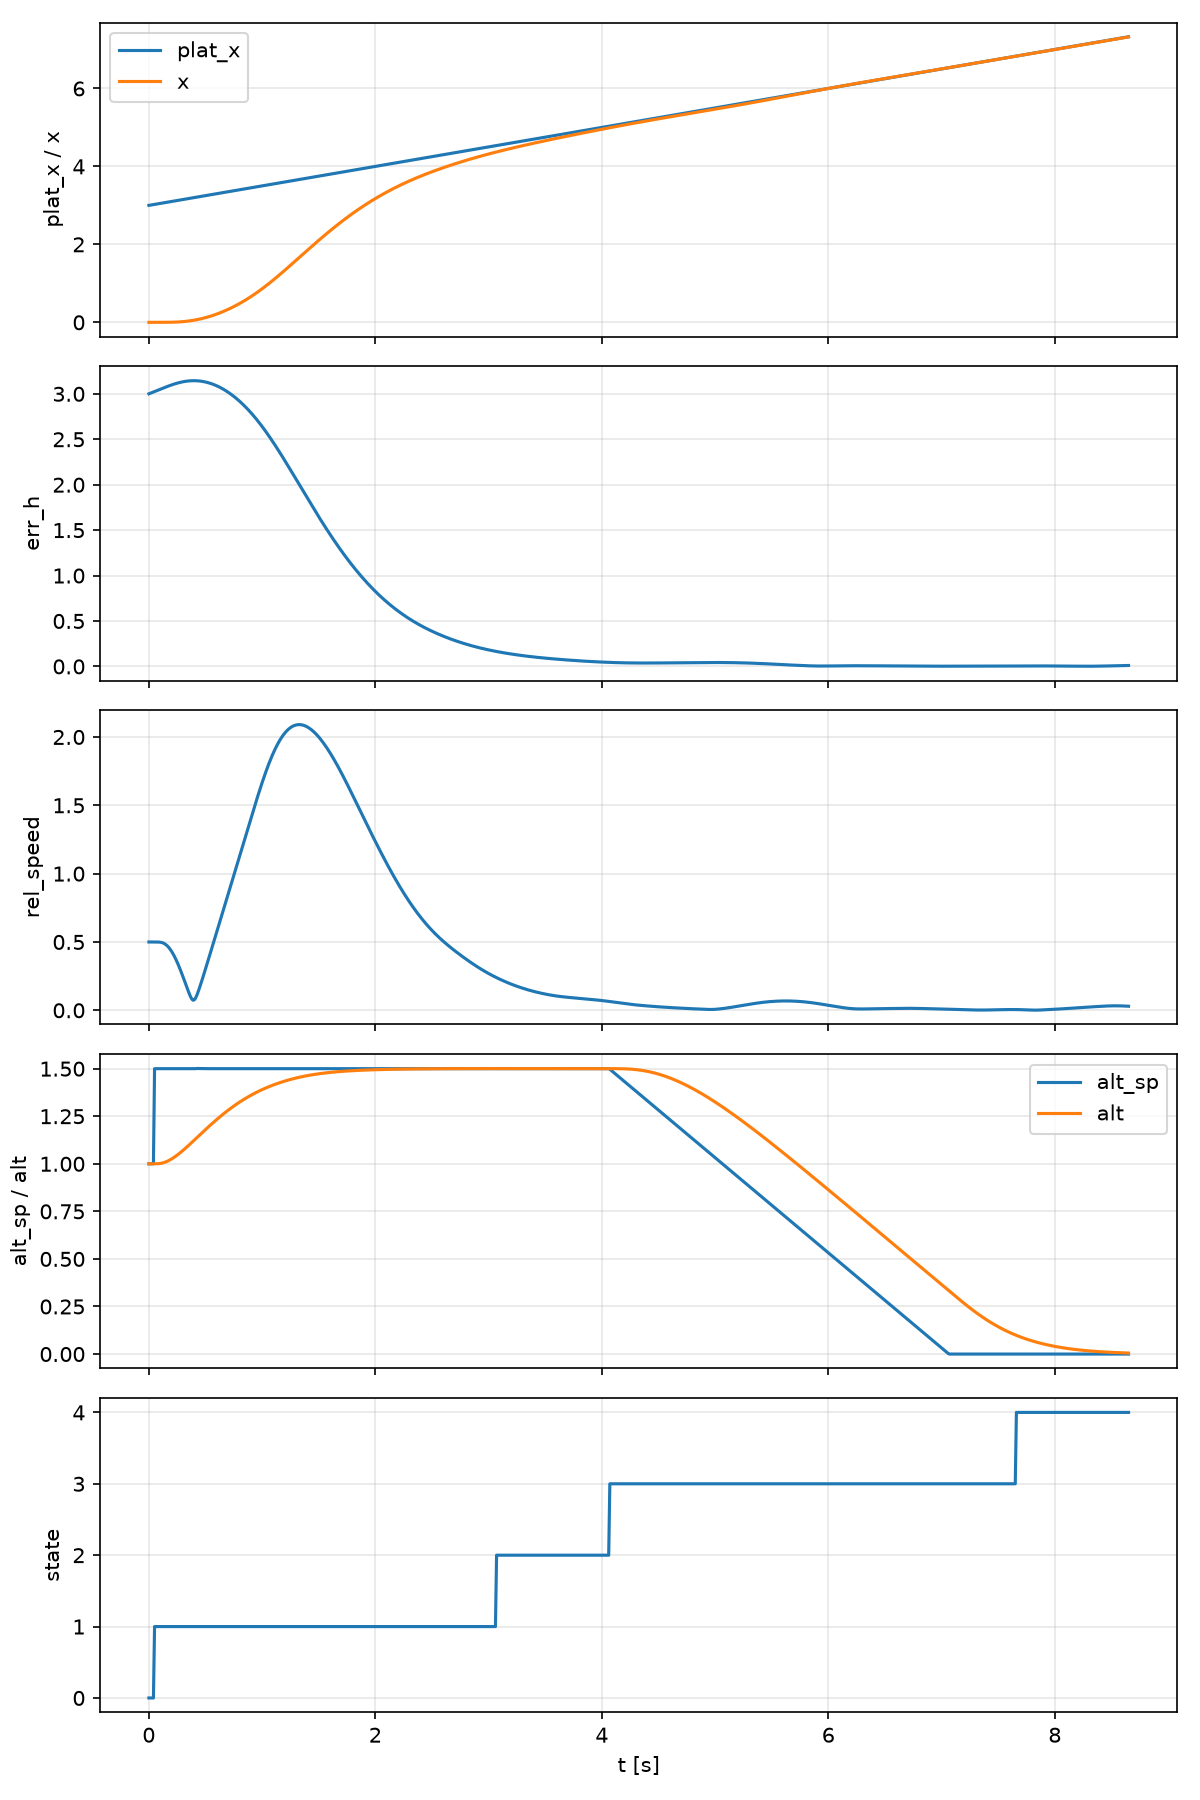
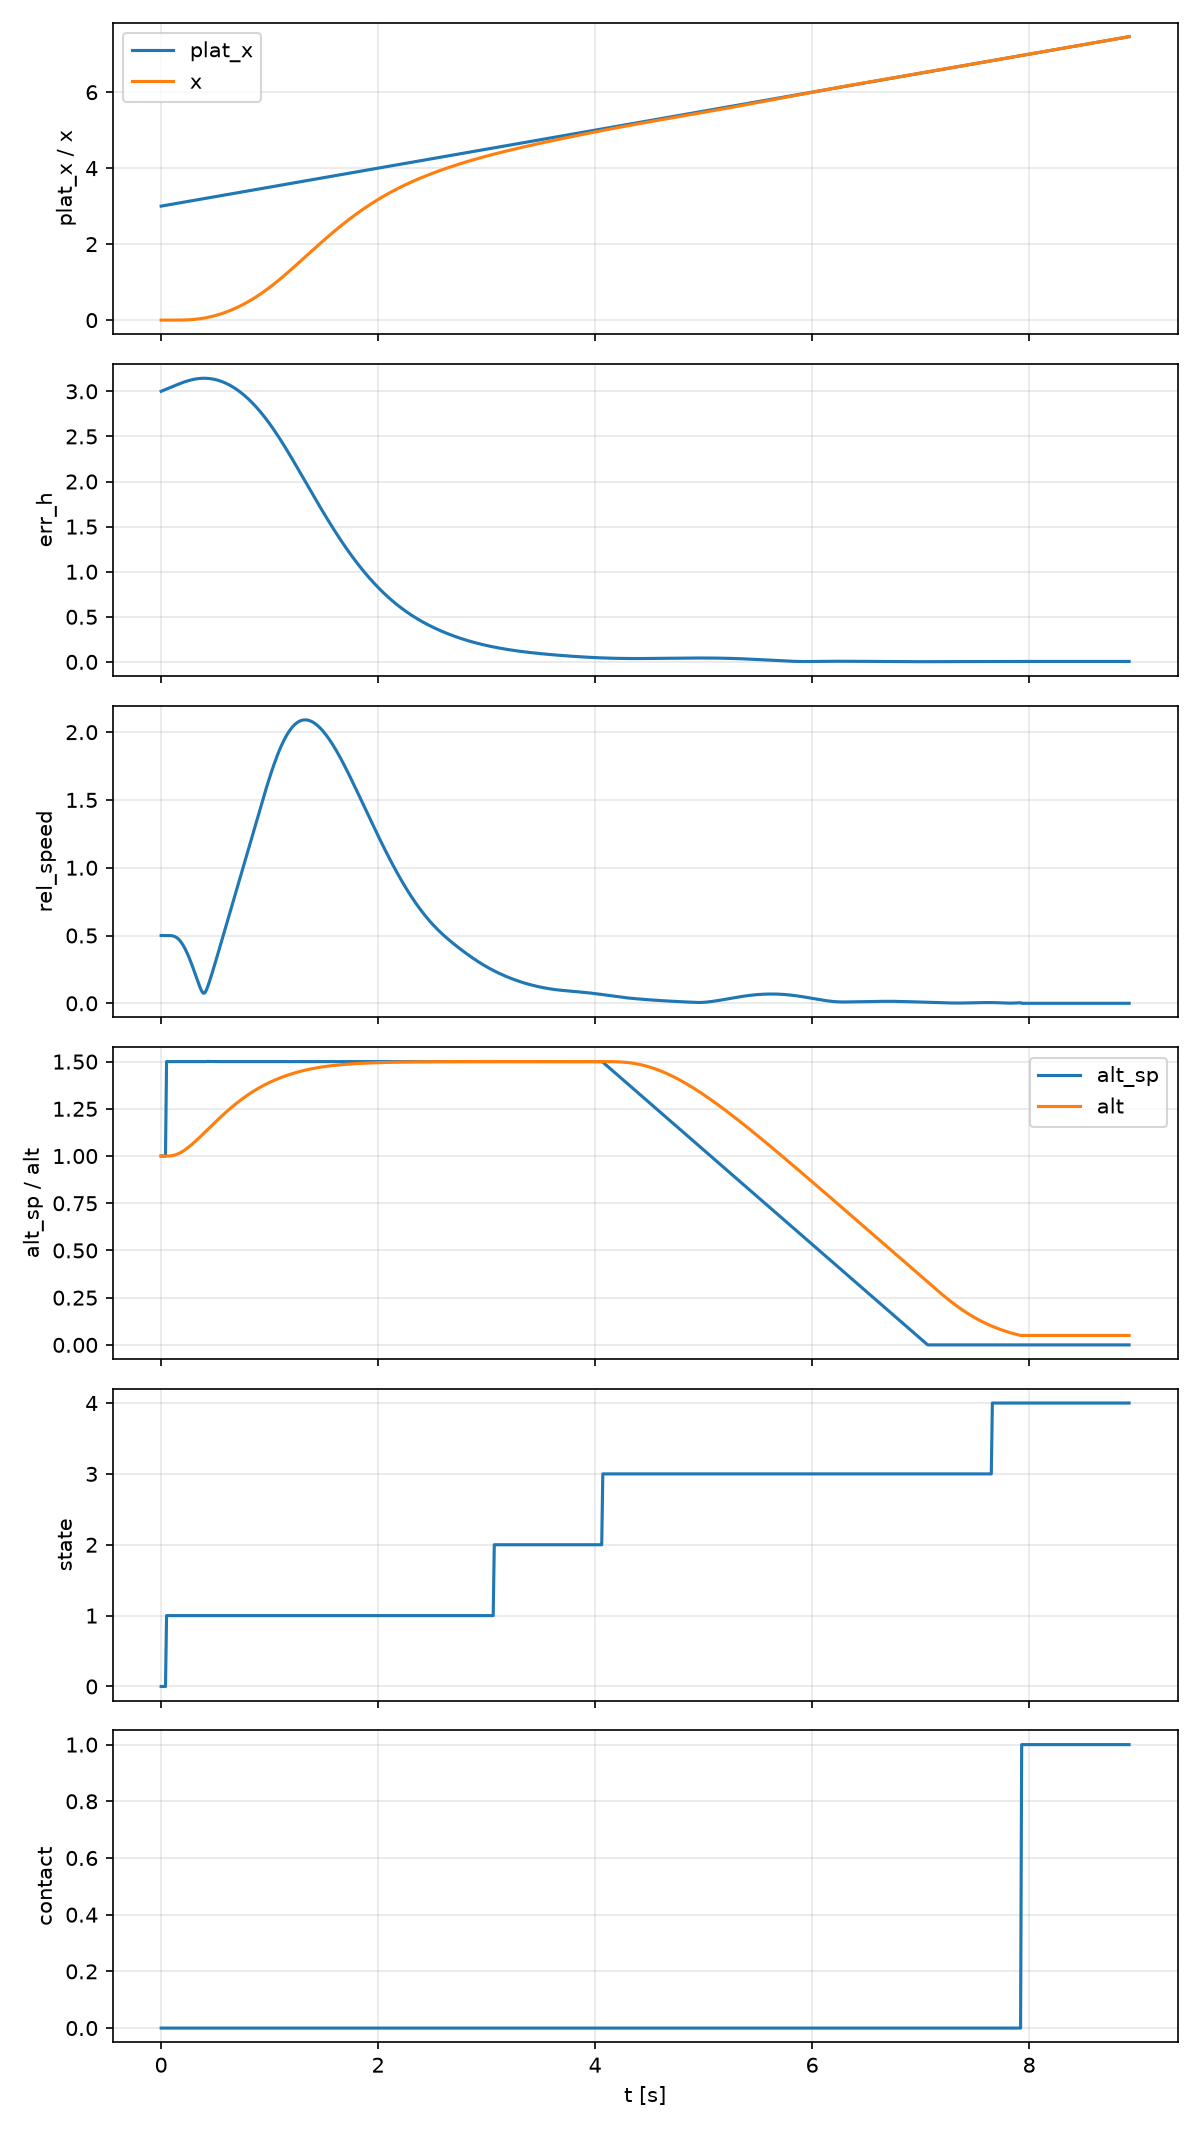
Add ground contact and touchdown success criteria

diff --git a/tests/test_touchdown.cpp b/tests/test_touchdown.cpp
@@ -1,0 +1,178 @@
+#include <cmath>
+
+#include "check.hpp"
+#include "guidance/landing_state_machine.hpp"
+#include "math/quat.hpp"
+#include "math/vec3.hpp"
+#include "pipeline/landing_pipeline.hpp"
+#include "pipeline/touchdown.hpp"
+#include "plant/platform.hpp"
+#include "plant/rigid_body.hpp"
+
+using core::Vec3d;
+using sim::TouchdownCriteria;
+using sim::TouchdownResult;
+
+namespace {
+
+sim::Platform make_platform() {
+    sim::Platform p;
+    p.position = Vec3d{2.0, 1.0, 0.0};
+    p.velocity = Vec3d{0.5, 0.0, 0.0};
+    p.half_size = 0.5;
+    return p;
+}
+
+sim::State make_quad(double dx, double dy, double vz, double dvx, double roll) {
+    sim::State s;
+    s.position = Vec3d{2.0 + dx, 1.0 + dy, -0.05};
+    s.velocity = Vec3d{0.5 + dvx, 0.0, vz};
+    s.attitude = core::from_euler_zyx(roll, 0.0, 0.0);
+    return s;
+}
+
+void test_contact_height() {
+    const TouchdownCriteria c;
+    CHECK(c.in_contact(0.05));
+    CHECK(c.in_contact(0.01));
+    CHECK(c.in_contact(-0.1));
+    CHECK(!c.in_contact(0.0501));
+    CHECK(!c.in_contact(1.0));
+}
+
+void test_clean_touchdown_succeeds() {
+    const TouchdownCriteria c;
+    const TouchdownResult r =
+        sim::evaluate_touchdown(c, 9.5, make_quad(0.1, -0.1, 0.2, 0.1, 0.05), make_platform());
+    CHECK(r.touched);
+    CHECK(r.success);
+    CHECK(r.on_platform);
+    CHECK(r.vertical_ok);
+    CHECK(r.rel_speed_ok);
+    CHECK(r.tilt_ok);
+    CHECK_NEAR(r.time, 9.5, 1e-15);
+    CHECK_NEAR(r.vertical_speed, 0.2, 1e-15);
+    CHECK_NEAR(r.rel_speed, 0.1, 1e-12);
+    CHECK_NEAR(r.tilt, 0.05, 1e-9);
+    CHECK_NEAR(r.offset, std::sqrt(0.02), 1e-12);
+}
+
+void test_off_platform_fails() {
+    const TouchdownCriteria c;
+    const TouchdownResult r =
+        sim::evaluate_touchdown(c, 1.0, make_quad(0.6, 0.0, 0.2, 0.0, 0.0), make_platform());
+    CHECK(r.touched);
+    CHECK(!r.on_platform);
+    CHECK(r.vertical_ok);
+    CHECK(r.rel_speed_ok);
+    CHECK(r.tilt_ok);
+    CHECK(!r.success);
+}
+
+void test_hard_landing_fails() {
+    const TouchdownCriteria c;
+    const TouchdownResult r =
+        sim::evaluate_touchdown(c, 1.0, make_quad(0.0, 0.0, 0.8, 0.0, 0.0), make_platform());
+    CHECK(r.on_platform);
+    CHECK(!r.vertical_ok);
+    CHECK(!r.success);
+}
+
+void test_relative_speed_fails() {
+    const TouchdownCriteria c;
+    const TouchdownResult r =
+        sim::evaluate_touchdown(c, 1.0, make_quad(0.0, 0.0, 0.2, 0.4, 0.0), make_platform());
+    CHECK(r.on_platform);
+    CHECK(r.vertical_ok);
+    CHECK(!r.rel_speed_ok);
+    CHECK(!r.success);
+}
+
+void test_tilt_fails() {
+    const TouchdownCriteria c;
+    const TouchdownResult r =
+        sim::evaluate_touchdown(c, 1.0, make_quad(0.0, 0.0, 0.2, 0.0, 0.3), make_platform());
+    CHECK_NEAR(r.tilt, 0.3, 1e-9);
+    CHECK(!r.tilt_ok);
+    CHECK(!r.success);
+}
+
+void test_upward_motion_is_not_a_hard_landing() {
+    const TouchdownCriteria c;
+    const TouchdownResult r =
+        sim::evaluate_touchdown(c, 1.0, make_quad(0.0, 0.0, -0.3, 0.0, 0.0), make_platform());
+    CHECK_NEAR(r.vertical_speed, -0.3, 1e-15);
+    CHECK(r.vertical_ok);
+}
+
+void test_closed_loop_touchdown_succeeds() {
+    sim::LandingPipeline p;
+    double t_descend = -1.0;
+    for (int i = 0; i < 40000 && !p.touchdown().touched; ++i) {
+        p.step();
+        if (p.last_output().state == core::LandingState::Descend && t_descend < 0.0) {
+            t_descend = p.time();
+        }
+    }
+    const TouchdownResult r = p.touchdown();
+    CHECK(r.touched);
+    CHECK(r.success);
+    CHECK(r.on_platform);
+    CHECK(r.vertical_ok);
+    CHECK(r.rel_speed_ok);
+    CHECK(r.tilt_ok);
+    CHECK(r.vertical_speed < 0.5);
+    CHECK(r.rel_speed < 0.3);
+    CHECK(r.tilt < 0.26);
+    CHECK(t_descend > 0.0);
+    CHECK(r.time > t_descend);
+    CHECK(r.time < 20.0);
+    CHECK_NEAR(r.time, p.time(), 1e-9);
+
+    for (int i = 0; i < 2000; ++i) {
+        p.step();
+    }
+    CHECK_NEAR(p.altitude(), 0.05, 1e-12);
+    CHECK_NEAR(p.state().velocity.z, 0.0, 1e-12);
+    CHECK(p.platform().contains_xy(p.state().position));
+    CHECK_NEAR(p.touchdown().time, r.time, 1e-15);
+}
+
+void test_closed_loop_off_platform_is_not_a_success() {
+    sim::PipelineConfig cfg;
+    cfg.platform_half_size = 0.0;
+    sim::LandingPipeline p(cfg);
+    for (int i = 0; i < 40000 && !p.touchdown().touched; ++i) {
+        p.step();
+    }
+    CHECK(p.touchdown().touched);
+    CHECK(!p.touchdown().on_platform);
+    CHECK(!p.touchdown().success);
+}
+
+void test_no_touchdown_without_a_target() {
+    sim::PipelineConfig cfg;
+    cfg.camera.dropout_prob = 1.0;
+    sim::LandingPipeline p(cfg);
+    for (int i = 0; i < 15000; ++i) {
+        p.step();
+    }
+    CHECK(!p.touchdown().touched);
+    CHECK_NEAR(p.altitude(), 1.0, 0.05);
+}
+
+}
+
+int main() {
+    test_contact_height();
+    test_clean_touchdown_succeeds();
+    test_off_platform_fails();
+    test_hard_landing_fails();
+    test_relative_speed_fails();
+    test_tilt_fails();
+    test_upward_motion_is_not_a_hard_landing();
+    test_closed_loop_touchdown_succeeds();
+    test_closed_loop_off_platform_is_not_a_success();
+    test_no_touchdown_without_a_target();
+    return check::report();
+}

diff --git a/sim/pipeline/landing_pipeline.hpp b/sim/pipeline/landing_pipeline.hpp
@@ -11,6 +11,7 @@
 #include "estimation/target_filter.hpp"
 #include "guidance/landing_state_machine.hpp"
 #include "math/vec3.hpp"
+#include "pipeline/touchdown.hpp"
 #include "plant/platform.hpp"
 #include "plant/quad.hpp"
 #include "quad/quad_params.hpp"
@@ -22,8 +23,10 @@ struct PipelineConfig {
     CameraConfig camera;
     core::LandingConfig landing;
     core::TrackingConfig tracking;
+    TouchdownCriteria touchdown;
     core::Vec3d platform_position{3.0, 0.0, 0.0};
     core::Vec3d platform_velocity{0.5, 0.0, 0.0};
+    double platform_half_size = 0.5;
     double start_altitude = 1.0;
 };
 
@@ -40,6 +43,7 @@ public:
           machine_(config.landing) {
         platform_.position = config.platform_position;
         platform_.velocity = config.platform_velocity;
+        platform_.half_size = config.platform_half_size;
         State s;
         s.position.z = -config.start_altitude;
         quad_.reset(s, std::sqrt(params_.mass * params_.gravity / (4.0 * params_.kThrust)));
@@ -48,6 +52,11 @@ public:
     void set_blind(bool blind) { blind_ = blind; }
 
     void step() {
+        if (touchdown_.touched) {
+            ride_platform();
+            return;
+        }
+
         const State& s = quad_.state();
         const double altitude_m = -s.position.z;
 
@@ -85,6 +94,10 @@ public:
         quad_.step(thrust, torque, kDt);
         platform_.step(kDt);
         t_ += kDt;
+
+        if (cfg_.touchdown.in_contact(-quad_.state().position.z)) {
+            touchdown_ = evaluate_touchdown(cfg_.touchdown, t_, quad_.state(), platform_);
+        }
     }
 
     double time() const { return t_; }
@@ -93,6 +106,7 @@ public:
     const core::LandingOutput& last_output() const { return out_; }
     const core::GuidanceOutput& last_guidance() const { return guide_; }
     const core::TargetEstimate& estimate() const { return est_; }
+    const TouchdownResult& touchdown() const { return touchdown_; }
 
     double altitude() const { return -quad_.state().position.z; }
 
@@ -115,6 +129,18 @@ private:
         return cfg;
     }
 
+    void ride_platform() {
+        State s = quad_.state();
+        s.position.x += platform_.velocity.x * kDt;
+        s.position.y += platform_.velocity.y * kDt;
+        s.position.z = -cfg_.touchdown.contact_height;
+        s.velocity = core::Vec3d{platform_.velocity.x, platform_.velocity.y, 0.0};
+        s.omega = core::Vec3d{};
+        quad_.reset(s, 0.0);
+        platform_.step(kDt);
+        t_ += kDt;
+    }
+
     PipelineConfig cfg_;
     QuadParams params_;
     Quad quad_;
@@ -130,6 +156,7 @@ private:
     core::TargetEstimate est_;
     core::LandingOutput out_;
     core::GuidanceOutput guide_;
+    TouchdownResult touchdown_;
     double t_ = 0.0;
     bool blind_ = false;
 };

diff --git a/sim/main.cpp b/sim/main.cpp
@@ -424,12 +424,12 @@ void run_track_descend(const std::string& out_path) {
 void run_land(const std::string& out_path) {
     sim::LandingPipeline pipeline;
 
-    sim::CsvLogger log(out_path,
-                       {"t", "plat_x", "x", "err_h", "rel_speed", "alt", "alt_sp", "state"});
+    sim::CsvLogger log(out_path, {"t", "plat_x", "x", "err_h", "rel_speed", "alt", "alt_sp",
+                                  "state", "contact"});
 
     const int max_steps = 30000;
     const int log_every = 10;
-    int landed_steps = 0;
+    int after_contact = 0;
 
     for (int i = 0; i <= max_steps; ++i) {
         pipeline.step();
@@ -438,15 +438,27 @@ void run_land(const std::string& out_path) {
             log.row({pipeline.time(), pipeline.platform().position.x, pipeline.state().position.x,
                      pipeline.true_horiz_error(), pipeline.true_rel_speed(), pipeline.altitude(),
                      pipeline.last_guidance().alt_sp,
-                     static_cast<double>(static_cast<int>(pipeline.last_output().state))});
+                     static_cast<double>(static_cast<int>(pipeline.last_output().state)),
+                     pipeline.touchdown().touched ? 1.0 : 0.0});
         }
 
-        if (pipeline.last_output().landed) {
-            ++landed_steps;
-            if (landed_steps > 1000) {
+        if (pipeline.touchdown().touched) {
+            ++after_contact;
+            if (after_contact > 1000) {
                 break;
             }
         }
+    }
+
+    const sim::TouchdownResult& td = pipeline.touchdown();
+    if (td.touched) {
+        std::printf(
+            "touchdown at t=%.2f s: %s (descent %.2f m/s, relative speed %.2f m/s, "
+            "tilt %.1f deg, offset %.2f m)\n",
+            td.time, td.success ? "SUCCESS" : "FAILED", td.vertical_speed, td.rel_speed,
+            td.tilt * 180.0 / kPi, td.offset);
+    } else {
+        std::printf("no touchdown within the run\n");
     }
 }
 

diff --git a/sim/pipeline/touchdown.hpp b/sim/pipeline/touchdown.hpp
@@ -1,0 +1,55 @@
+#pragma once
+
+#include <algorithm>
+#include <cmath>
+
+#include "math/quat.hpp"
+#include "math/vec3.hpp"
+#include "plant/platform.hpp"
+#include "plant/rigid_body.hpp"
+
+namespace sim {
+
+struct TouchdownCriteria {
+    double contact_height = 0.05;
+    double max_vertical_speed = 0.5;
+    double max_rel_speed = 0.3;
+    double max_tilt = 0.26;
+
+    bool in_contact(double altitude) const { return altitude <= contact_height; }
+};
+
+struct TouchdownResult {
+    bool touched = false;
+    bool success = false;
+    bool on_platform = false;
+    bool vertical_ok = false;
+    bool rel_speed_ok = false;
+    bool tilt_ok = false;
+    double time = 0.0;
+    double vertical_speed = 0.0;
+    double rel_speed = 0.0;
+    double tilt = 0.0;
+    double offset = 0.0;
+};
+
+inline TouchdownResult evaluate_touchdown(const TouchdownCriteria& c, double t, const State& quad,
+                                          const Platform& platform) {
+    TouchdownResult r;
+    r.touched = true;
+    r.time = t;
+    r.vertical_speed = quad.velocity.z;
+    r.rel_speed = std::hypot(quad.velocity.x - platform.velocity.x,
+                             quad.velocity.y - platform.velocity.y);
+    const core::Vec3d thrust_dir = core::rotate(quad.attitude, core::Vec3d{0.0, 0.0, -1.0});
+    r.tilt = std::acos(std::clamp(-thrust_dir.z, -1.0, 1.0));
+    r.offset = std::hypot(quad.position.x - platform.position.x,
+                          quad.position.y - platform.position.y);
+    r.on_platform = platform.contains_xy(quad.position);
+    r.vertical_ok = r.vertical_speed <= c.max_vertical_speed;
+    r.rel_speed_ok = r.rel_speed <= c.max_rel_speed;
+    r.tilt_ok = r.tilt <= c.max_tilt;
+    r.success = r.on_platform && r.vertical_ok && r.rel_speed_ok && r.tilt_ok;
+    return r;
+}
+}
